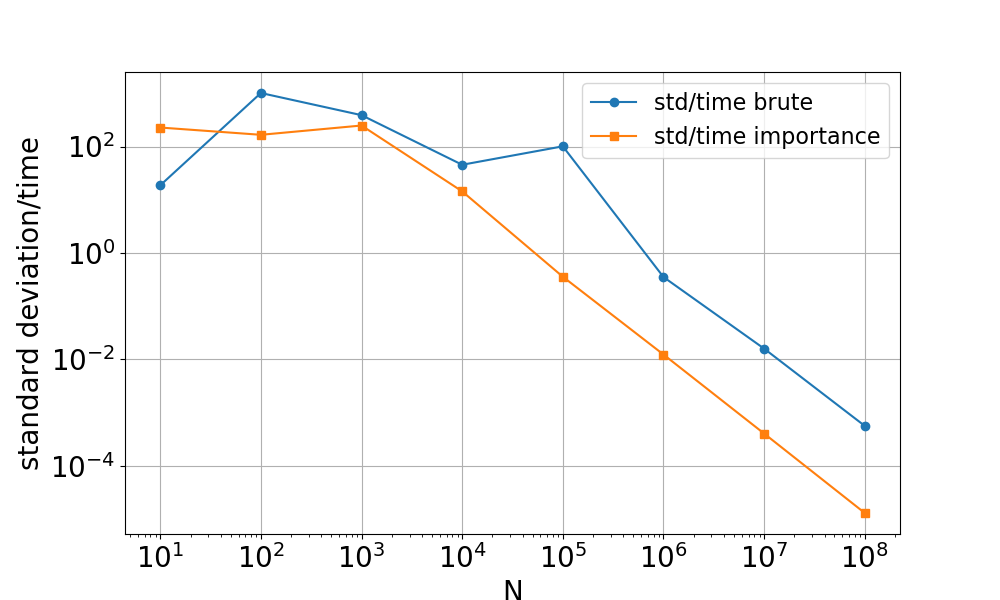
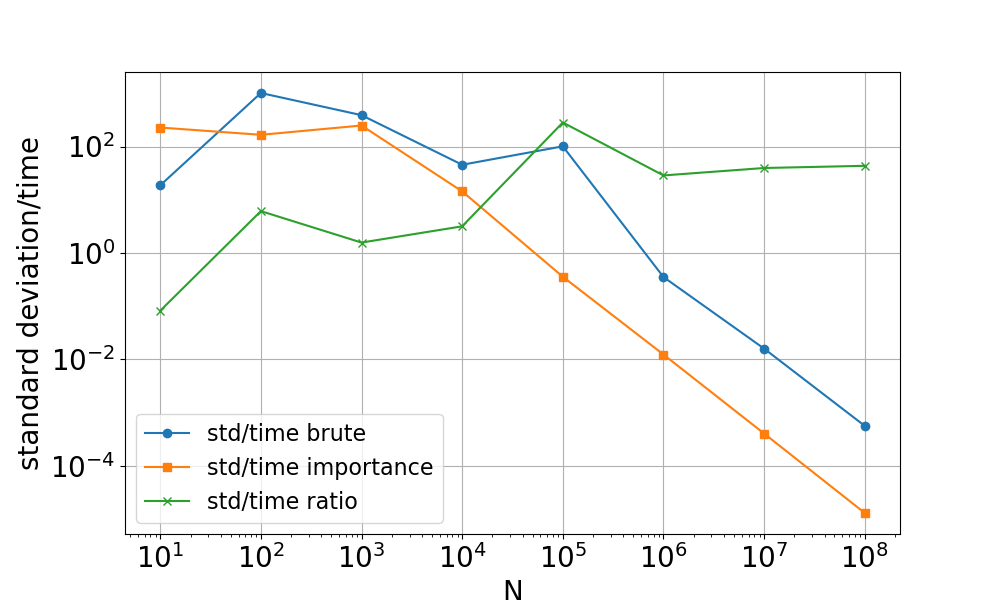
More writing about monte-carlo results

diff --git a/Project3/src/python/post_process_montecarlo.py b/Project3/src/python/post_process_montecarlo.py
@@ -53,17 +53,22 @@ if __name__ == '__main__':
     # Calculate and plot standard deviation / time ratios
     std_time_importance = (df['std_importance']/df['time_importance_pl'])
     std_time_brute = df['std_brute_pl']/df['time_brute_pl']
+    std_time_ratio = std_time_brute/std_time_importance
+    print(std_time_ratio)
     plt.xscale('log')
     plt.yscale('log')
 
     plt.plot(df['N'], std_time_brute, label='std/time brute', marker='o')
     plt.plot(df['N'], std_time_importance, label='std/time importance',marker='s')
+    plt.plot(df['N'], std_time_ratio, label='std/time ratio',marker='x')
     plt.grid()
     plt.xlabel('N')
     plt.ylabel('standard deviation/time')
     plt.legend()
     plt.savefig(FIGDIR+'mc_std_time.png')
     plt.clf()
+
+
 
 
 
@@ -75,12 +80,16 @@ if __name__ == '__main__':
     df['error_importance'] = np.abs(df['error_importance'])
     plt.plot(df['N'],df['error_brute_pl'], label='error_brute', marker='s')
     plt.plot(df['N'],df['error_importance'], label='error_importance', marker='o')
+    plt.plot(df['N'], df['error_brute_pl']/df['error_importance'], label='error brute/error importance', marker='x')
+
     plt.xlabel('N')
     plt.ylabel('Error')
     plt.legend()
     plt.grid()
+
     plt.savefig(FIGDIR+'mc_error.png')
     plt.clf()
+
 
 
     # Plot time ratio parallel unparallel

diff --git a/Project3/latex/results.tex b/Project3/latex/results.tex
@@ -3,6 +3,13 @@
 
 \subsection{Monte-Carlo integration}
 
+\subsubsection{Error and accuracy}
+
+\Cref{fig:mc_error} shows the absolute value of the difference between the
+calculated value of the integral and the analytical solution with brute force
+and importance sampling. N is the number of samples taken.
+Importance sampling outperformed brute force by close to a factor 10 for $N \geq 10^4$.
+For $N \leq 10^3$ the difference was smaller.
 
 \begin{figure}[H]
   \centering
@@ -13,6 +20,11 @@
   \label{fig:mc_error}
 \end{figure}
 
+To look into the dependence of accuracy on runtime we show \cref{fig:mc_std_time}
+which shows standard deviation divided by run time for several N. Taking account
+for the run time shows that the importance sampling in this case gets really
+effective for $N \geq 10^5$, outperforming the brute force by roughly a factor
+40.
 
 \begin{figure}[H]
   \centering
@@ -22,6 +34,12 @@
   \label{fig:mc_std_time}
 \end{figure}
 
+\subsubsection{Parallelization}
+
+The results of parallelizing our code is shown in \cref{fig:mc_time_ratio}, which
+shows that when N is larger than 10000 we acheived a speedup in the order of 5.
+Since the code was run on a laptop with 8 cores this was not optimal, but still
+a great boost to the run time.
 
 \begin{figure}[H]
   \centering
